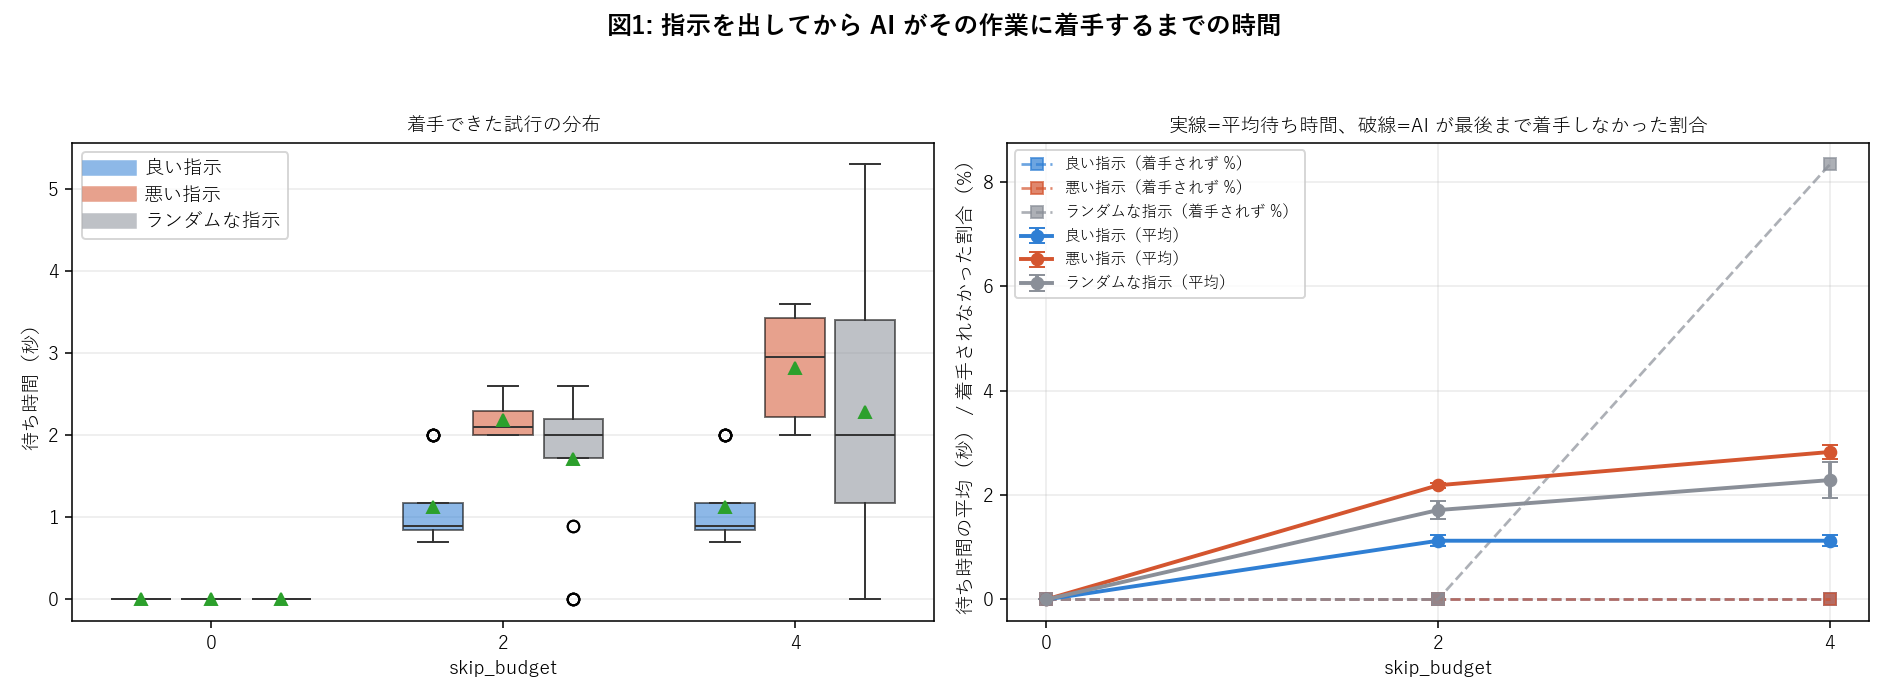
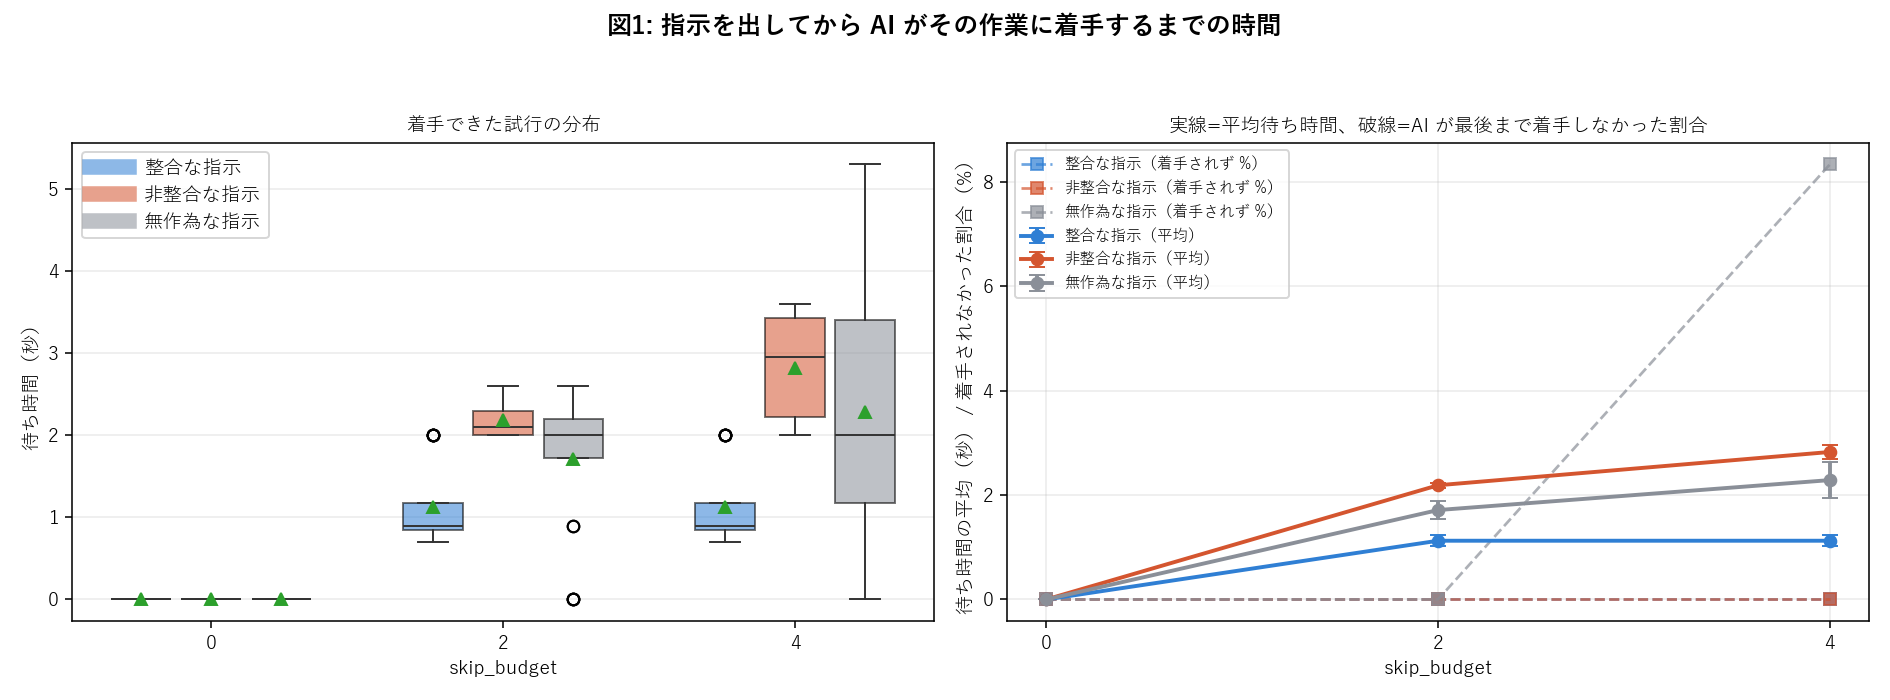
図表とコンソールの表記を「整合 / 非整合」に揃えた
論文・報告では aligned / misaligned に統一するので、図もそれに合わせる。
「良い / 悪い」は参加者の指示の巧拙を評価する含意を持つが、実際に
扱っているのは AI の計画との偶然の一致・不一致なので、表記としても
正確でない。

CSV の値とコマンドライン引数は既存データとの互換のため good/bad の
まま。差し替えたのは表示だけ。

Changed region(s): [[0.5619, 0.21, 0.6868, 0.42], [0.0624, 0.21, 0.1561, 0.36]]

diff --git a/tools/run_human_model_experiment.py b/tools/run_human_model_experiment.py
@@ -93,9 +93,9 @@ def state_for(env, idx):
 def pick_instruction(ai, state, orders, quality, rng):
     """指示の質に応じて対象タスクを選ぶ。
 
-    良い指示 = スープを進める作業。スープは「運ぶ→刻む→煮る(15秒)→受け渡し」
+    整合な指示 = スープを進める作業。スープは「運ぶ→刻む→煮る(15秒)→受け渡し」
               と工程が長く、早く着手しないと間に合わない。
-    悪い指示 = ジュースを進める作業。人間側で完結しやすく、急ぐ必要がない。
+    非整合な指示 = ジュースを進める作業。人間側で完結しやすく、急ぐ必要がない。
 
     候補は AI が実際に実行できる作業だけ(get_instruction_candidates が絞る)。
     どの注文がスープ/ジュースかは、渡された注文一覧から判定する。
@@ -118,7 +118,7 @@ def pick_instruction(ai, state, orders, quality, rng):
         指示は (動詞, 対象) 単位でまとめられるので、同じ具材が複数の注文で
         使われると1つの候補が両方に属する。サラダとスープは同じ野菜プールを
         共有するため、これを避けないと「スープを優先させた」と言い切れない
-        指示を良い指示として選んでしまう。
+        指示を整合な指示として選んでしまう。
         """
         return set(c[1]['order_uids']) <= uids
 

diff --git a/tools/run_instruction_wait_experiment.py b/tools/run_instruction_wait_experiment.py
@@ -258,7 +258,7 @@ def main():
     ap.add_argument('--human-model', default='greedy')
     ap.add_argument('--cases', default='experiment',
                     choices=['experiment', 'all'],
-                    help="'experiment'(既定)は良い指示が一意に定まる構成だけ。"
+                    help="'experiment'(既定)は整合な指示が一意に定まる構成だけ。"
                          "'all' は全部")
     ap.add_argument('--limit-cases', type=int, default=None,
                     help='先頭から何通りだけ使うか(下見用)')
@@ -279,7 +279,7 @@ def main():
     print('様子を目で見たいときは tools/watch_human_model.py を使ってください。')
 
     sets = enumerate_order_recipes('experiment2')
-    # 本実験で使うのは「良い指示が一意に定まる」構成だけ。サラダとスープが
+    # 本実験で使うのは「整合な指示が一意に定まる」構成だけ。サラダとスープが
     # AI 側の具材を共有すると、その指示が「スープを優先させた」と言い切れない。
     cases = (experiment_case_indices('experiment2') if args.cases == 'experiment'
              else list(range(len(sets))))

diff --git a/tools/play_session.py b/tools/play_session.py
@@ -8,7 +8,7 @@
 操作: 矢印キーで移動、スペースで持つ/置く/使う。
 指示: 開始直後に1回だけ選ぶ(見送り不可)。着手できる工程だけが候補に出る。
 
-本実験で使う注文構成は、良い指示がスープ専属になるものだけ
+本実験で使う注文構成は、整合な指示がスープ専属になるものだけ
 (experiment_case_indices が返す一覧)。それ以外を使うときは --any-case。
 
 結果は results/play_sessions.csv に1行ずつ足していく。
@@ -38,7 +38,7 @@ from agent.gameplay import GamePlay, INSTRUCTION_TIMING_ONCE_AT_START  # noqa: E
 from agent.myagent.CSPAgent import CSPAgent  # noqa: E402
 import run_human_model_experiment as H  # noqa: E402
 
-# 「良い指示」がスープ専属になる注文構成。サラダとスープが AI 側の具材を
+# 「整合な指示」がスープ専属になる注文構成。サラダとスープが AI 側の具材を
 # 共有すると、その指示が「スープを優先させた」と言い切れなくなる。
 EXPERIMENT_CASES = tuple(experiment_case_indices('experiment2'))
 

diff --git a/tools/plot_instruction_wait.py b/tools/plot_instruction_wait.py
@@ -20,7 +20,9 @@ plt.rcParams['axes.unicode_minus'] = False
 
 BUDGETS = (0, 2, 4)
 QUALITIES = ('good', 'bad', 'random')
-QUALITY_JA = {'good': '良い指示', 'bad': '悪い指示', 'random': 'ランダムな指示'}
+# 表示だけの対応表。CSV の値や引数は既存データとの互換のため good/bad の
+# まま。論文・報告では「整合 / 非整合」に統一しているので、図もそれに揃える。
+QUALITY_JA = {'good': '整合な指示', 'bad': '非整合な指示', 'random': '無作為な指示'}
 QUALITY_COLOR = {'good': '#2f7fd4', 'bad': '#d4552f', 'random': '#8a8f98'}
 VERB_JA = {'chop': '刻む', 'cook': '煮る', 'mix': '混ぜる', 'serve': '提供',
            'serve_salad': 'サラダ提供', 'serve_juice': 'ジュース提供',

diff --git a/tools/plot_human_model_experiment.py b/tools/plot_human_model_experiment.py
@@ -22,7 +22,9 @@ MODELS = ('follow_plan', 'greedy', 'random')
 MODEL_JA = {'follow_plan': '計画どおり(上限)', 'greedy': '貪欲', 'random': 'ランダム'}
 MODEL_COLOR = {'follow_plan': '#2f7fd4', 'greedy': '#d4552f', 'random': '#8a8f98'}
 QUALITIES = ('good', 'bad', 'random')
-QUALITY_JA = {'good': '良い指示', 'bad': '悪い指示', 'random': 'ランダム'}
+# 表示だけの対応表。CSV の値や引数は既存データとの互換のため good/bad の
+# まま。論文・報告では「整合 / 非整合」に統一しているので、図もそれに揃える。
+QUALITY_JA = {'good': '整合な指示', 'bad': '非整合な指示', 'random': '無作為'}
 QUALITY_COLOR = {'good': '#2f7fd4', 'bad': '#d4552f', 'random': '#8a8f98'}
 BUDGETS = (0, 2, 4)
 

diff --git a/tools/plot_instruction_experiment.py b/tools/plot_instruction_experiment.py
@@ -23,7 +23,9 @@ for _f in ('Yu Gothic', 'Meiryo', 'MS Gothic', 'Noto Sans CJK JP'):
 plt.rcParams['axes.unicode_minus'] = False
 
 QUALITIES = ('good', 'bad', 'random')
-QUALITY_JA = {'good': '良い指示', 'bad': '悪い指示', 'random': 'ランダム'}
+# 表示だけの対応表。CSV の値や引数は既存データとの互換のため good/bad の
+# まま。論文・報告では「整合 / 非整合」に統一しているので、図もそれに揃える。
+QUALITY_JA = {'good': '整合な指示', 'bad': '非整合な指示', 'random': '無作為'}
 COLORS = {'good': '#2f7fd4', 'bad': '#d4552f', 'random': '#8a8f98'}
 SKIP_BUDGETS = (0, 2, 4)
 
